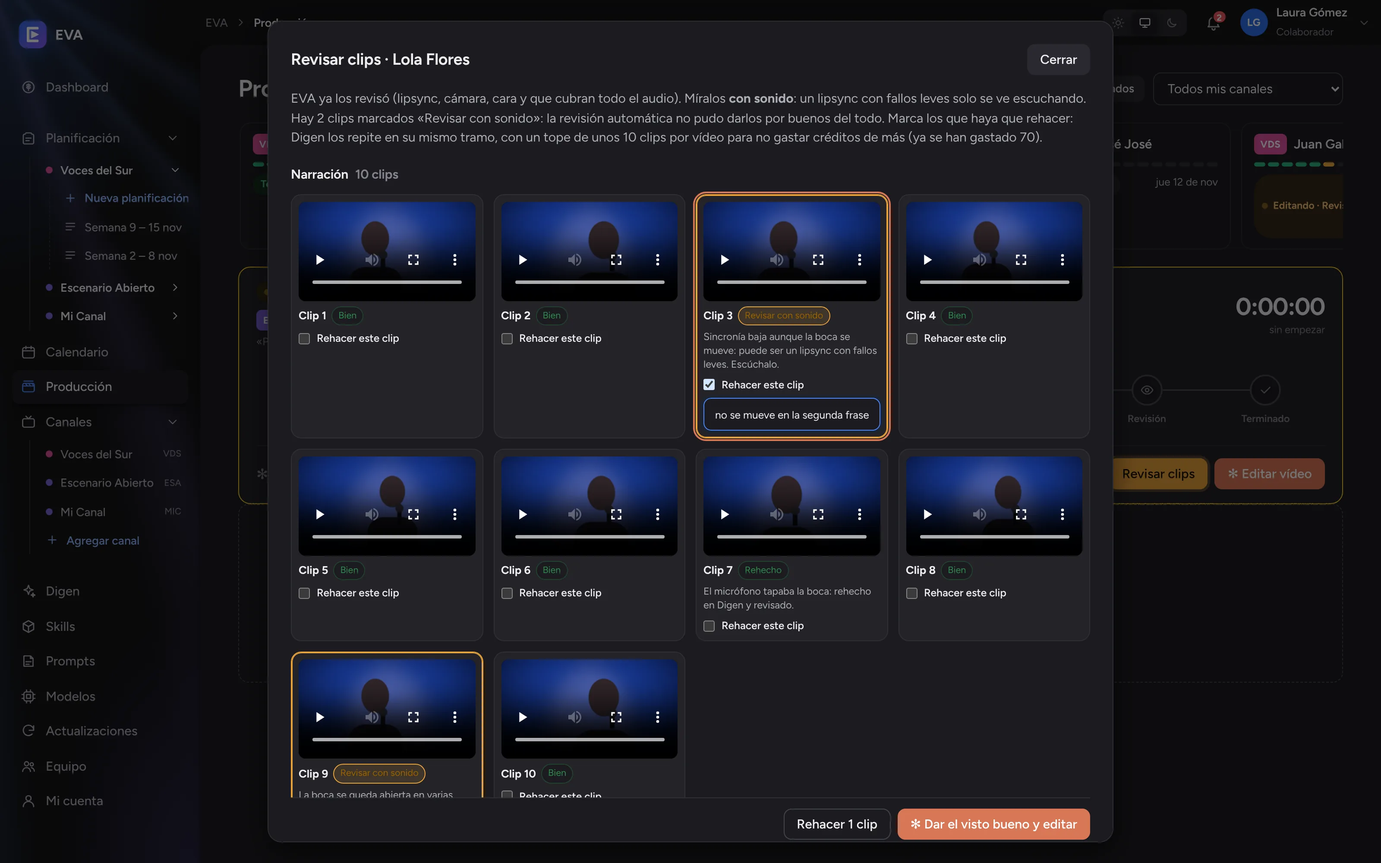
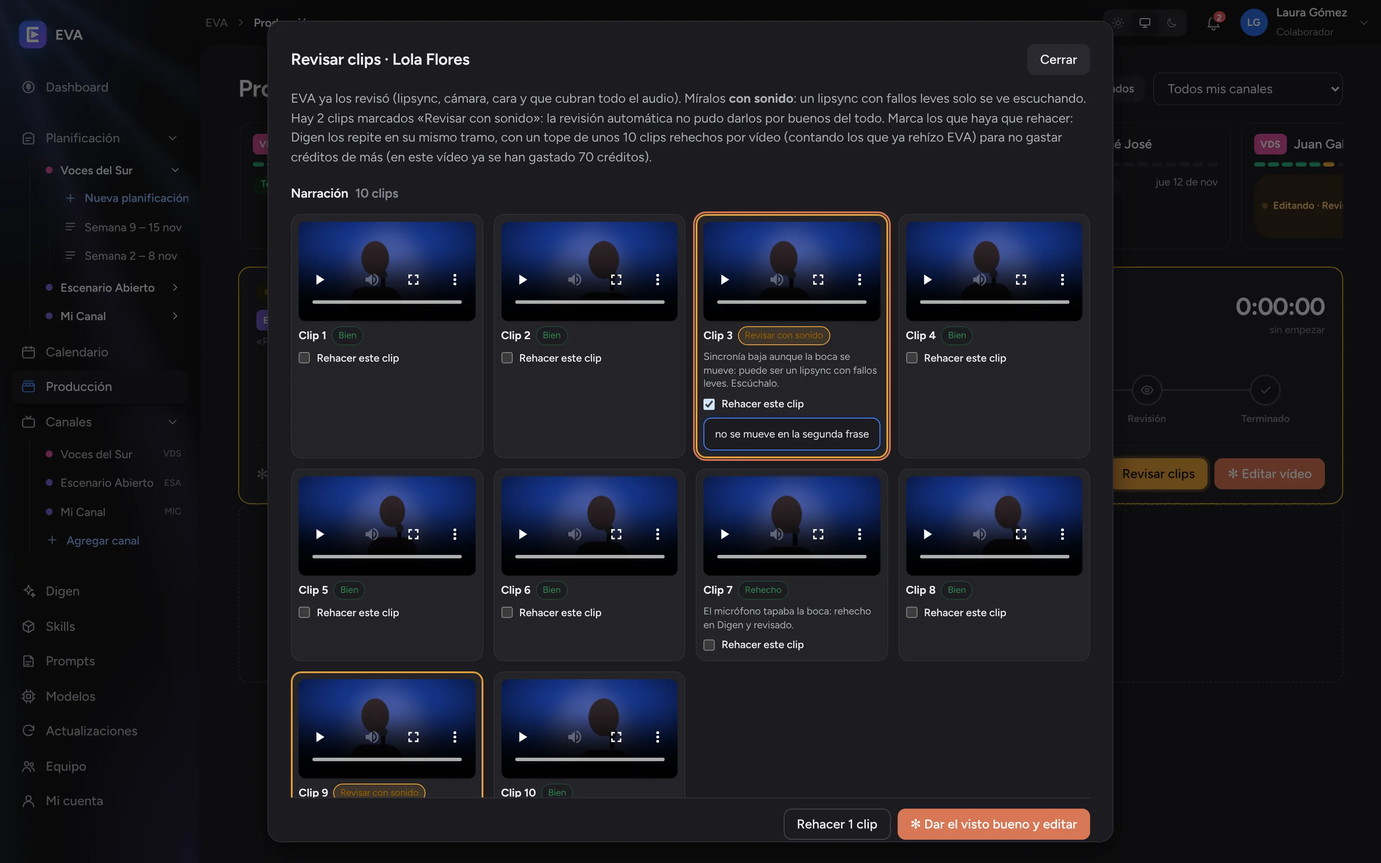
Web de EVA: dos formas de editar, paquete listo para copiar, carpeta miniatura, app de Claude y correcciones de la revisión
Claude-Session: https://claude.ai/code/session_01Qcj249naK1yTNmgoBioSva

Changed region(s): [[0.2188, 0.186, 0.7812, 0.93], [0.5, 0.155, 0.75, 0.186], [0.4375, 0.155, 0.4688, 0.186]]

diff --git a/index.html b/index.html
@@ -63,6 +63,13 @@ h1{font-size:clamp(40px,7vw,76px);line-height:1.02;letter-spacing:-.035em;font-w
 h1 em{font-style:normal;background:var(--grad);-webkit-background-clip:text;background-clip:text;color:transparent}
 .entrada{font-size:clamp(18px,2.2vw,21px);color:var(--t2);max-width:62ch;text-wrap:pretty}
 .botones{display:flex;flex-wrap:wrap;gap:12px;margin-top:30px}
+.autor{margin-top:18px;font-size:15px;color:var(--t3);max-width:62ch}
+.modos{display:grid;grid-template-columns:repeat(auto-fit,minmax(260px,1fr));gap:14px;margin-top:18px}
+.modo{background:var(--panel);border:1px solid var(--linea);border-radius:14px;padding:20px;min-width:0}
+.modo h4{margin:0 0 6px;display:flex;align-items:center;gap:8px;flex-wrap:wrap}
+.modo .para{display:block;font-size:14px;color:var(--t3);margin-bottom:10px}
+.modo ol{margin:0;padding-left:20px;color:var(--t2);font-size:15.5px;line-height:1.55}
+.modo ol li{margin:4px 0}
 .btn{display:inline-flex;align-items:center;gap:8px;font-weight:600;font-size:16px;padding:12px 20px;border-radius:12px;border:1px solid var(--linea);background:var(--panel);color:var(--t1)}
 .btn:hover{text-decoration:none;border-color:var(--linea-2)}
 .btn.primario{background:var(--grad);color:#fff;border:0;box-shadow:0 10px 24px -10px color-mix(in srgb,var(--violeta) 70%,transparent)}
@@ -286,6 +293,7 @@ footer .ancho{display:flex;flex-wrap:wrap;gap:12px;align-items:center;justify-co
         <svg width="18" height="18" viewBox="0 0 24 24" fill="none" stroke="currentColor" stroke-width="2.4" stroke-linecap="round" stroke-linejoin="round"><path d="M5 12h14M13 6l6 6-6 6"/></svg></a>
       <a class="btn" href="#manual">Ver el manual</a>
     </div>
+    <p class="autor">EVA es un proyecto creado por Andy para trabajar con su equipo de canales. Por ahora solo está disponible por invitación.</p>
     <div class="escaparate"><img src="img/produccion.webp" width="3200" height="2000" alt="Producción en EVA: tres vídeos editándose a la vez, cada uno con su ventana de Claude Code y su barra de etapas" data-zoom></div>
   </div>
 </section>
@@ -330,7 +338,7 @@ footer .ancho{display:flex;flex-wrap:wrap;gap:12px;align-items:center;justify-co
       <div class="paso"><div class="n">1</div><h3>Planificar</h3><p>Pulsas <b>Planificar</b> y EVA propone los vídeos de la semana con su historia, título y miniatura.</p></div>
       <div class="paso"><div class="n">2</div><h3>Aprobar</h3><p>Revisas la propuesta y la apruebas, o pides cambios con tus palabras.</p></div>
       <div class="paso"><div class="n">3</div><h3>Producir</h3><p>Preparas el material de cada vídeo (foto, narración, canción e instrumental) en la carpeta que EVA crea para él.</p></div>
-      <div class="paso"><div class="n">4</div><h3>Editar</h3><p>Pulsas <b>Editar vídeo</b> y EVA monta, verifica y renderiza en DaVinci Resolve.</p></div>
+      <div class="paso"><div class="n">4</div><h3>Editar</h3><p>Pulsas <b>Editar vídeo</b> y EVA monta, verifica y renderiza en DaVinci Resolve. O <b>Solo clips</b>, si quieres revisar los clips antes.</p></div>
       <div class="paso"><div class="n">5</div><h3>Listo para publicar</h3><p>El vídeo terminado queda en su carpeta, dentro de la del canal. Lo subes tú a YouTube el día previsto.</p></div>
     </div>
 
@@ -340,7 +348,7 @@ footer .ancho{display:flex;flex-wrap:wrap;gap:12px;align-items:center;justify-co
         <h3 style="font-size:28px;letter-spacing:-.02em">Una semana pensada, no improvisada.</h3>
         <ul class="lista">
           <li><span><b>Resultados recientes.</b> Vistas, retención y qué títulos y miniaturas ganaron en las últimas semanas.</span></li>
-          <li><span><b>Los demás canales.</b> Mira el calendario de todo el equipo para no repetir artistas, canciones ni días.</span></li>
+          <li><span><b>Los demás canales.</b> Si colaboras en un equipo, mira también su calendario para no repetir artistas, canciones ni días.</span></li>
           <li><span><b>Tu público.</b> Días y horas de publicación pensados para la audiencia de cada canal, con la hora de España y de América.</span></li>
           <li><span><b>Las reglas del canal.</b> Cada canal tiene su estilo y sus límites; la propuesta se revisa contra ellos antes de enseñártela.</span></li>
           <li><span><b>Una segunda mirada.</b> Antes de llegar a ti, la propuesta pasa una revisión como la de un editor exigente: si algo falla, se corrige.</span></li>
@@ -381,14 +389,15 @@ footer .ancho{display:flex;flex-wrap:wrap;gap:12px;align-items:center;justify-co
         <p>Con <b>Solo clips</b>, EVA genera y revisa los clips sin editar y te avisa: los miras con sonido, rehaces los que no te convenzan y das el visto bueno para editar.</p>
       </article>
     </div>
+    <div class="nota" style="margin-top:28px"><svg viewBox="0 0 24 24" fill="none" stroke="currentColor" stroke-width="2" stroke-linecap="round"><circle cx="12" cy="12" r="9"/><path d="M12 8v5M12 16.5v.01"/></svg><span><b>EVA no es perfecta, y no pretende serlo.</b> Por eso te deja el control en cada etapa: puedes pedir cambios en la planificación, revisar los clips antes de editar o escribirle en su ventana de Claude Code una corrección en cualquier momento de la edición.</span></div>
     <div class="dos" style="margin-top:72px">
       <div>
         <p class="etq">Aprende de cada fallo</p>
         <h3 style="font-size:28px;letter-spacing:-.02em">Cada error real se convierte en una regla nueva.</h3>
         <p class="t2" style="margin-top:14px">Cuando un vídeo sale con un fallo que se escapó, se estudia y EVA lo vigila desde entonces. Un ejemplo: unos clips con lipsync casi perfecto pasaron la revisión aunque, escuchándolos, se notaba que la boca no acompañaba bien a la voz. Desde entonces:</p>
         <ul class="lista">
-          <li><span><b>Mira la boca junto a la voz</b>, fotograma a fotograma, en los clips que la revisión automática no puede dar por buenos del todo.</span></li>
-          <li><span><b>Pide a Digen lo que evita esos fallos:</b> el micrófono nunca delante de los labios, nada de sonrisa amplia mientras habla y una articulación clara de cada palabra.</span></li>
+          <li><span><b>Mira la boca junto a la voz</b> en los clips que la revisión automática no puede dar por buenos del todo.</span></li>
+          <li><span><b>Ajusta lo que pide a Digen</b> para evitar ese tipo de fallo en los siguientes vídeos.</span></li>
           <li><span><b>Te marca los dudosos</b> («Revisar con sonido») para que, si usas Solo clips, sepas cuáles mirar primero.</span></li>
         </ul>
       </div>
@@ -441,7 +450,8 @@ footer .ancho{display:flex;flex-wrap:wrap;gap:12px;align-items:center;justify-co
       <li><a href="#entrar"><span><b>Instala EVA y entra.</b> El administrador te da el instalador y autoriza tu cuenta de Google y tu PC.</span></a></li>
       <li><a href="#resolve"><span><b>Instala DaVinci Resolve</b> y aprende a conectarlo con EVA.</span></a></li>
       <li><a href="#instalar"><span><b>Instala Claude Code</b> e inicia sesión con tu cuenta de Claude.</span></a></li>
-      <li><a href="#otras"><span><b>Comprueba que todo está en verde</b> en Comprobación del sistema.</span></a></li>
+      <li><a href="#cuenta"><span><b>Pega tu clave de Digen</b> en Mi cuenta: es el servicio que genera los clips del concursante.</span></a></li>
+      <li><a href="#otras"><span><b>Comprueba que todo está en verde</b> en Comprobación del sistema (menú de la izquierda).</span></a></li>
       <li><a href="#roles"><span><b>Mira tu rol</b> y qué canales tienes.</span></a></li>
       <li><a href="#canales"><span><b>Crea tu canal y conecta sus métricas</b>, si trabajas con canales propios.</span></a></li>
       <li><a href="#planificacion"><span><b>Planifica tu primera semana</b> y apruébala.</span></a></li>
@@ -497,11 +507,11 @@ footer .ancho{display:flex;flex-wrap:wrap;gap:12px;align-items:center;justify-co
 
         <article class="cap" id="resolve">
           <header><span class="num">02</span><h3>Instalar y conectar DaVinci Resolve</h3></header>
-          <p>EVA monta tus vídeos dentro de <strong>DaVinci Resolve</strong>, así que tiene que estar instalado en tu PC. Descárgalo de la web oficial de Blackmagic Design e instálalo; mejor antes de abrir EVA, porque así EVA le añade sola su <strong>conector</strong>. Si lo instalas después, pulsa <b>Probar de nuevo</b> en Comprobación del sistema.</p>
+          <p>EVA monta tus vídeos dentro de <strong>DaVinci Resolve</strong>, así que tiene que estar instalado en tu PC. Instala la versión que te indique quien te invitó a EVA (EVA necesita una versión concreta para poder conectarse a Resolve); al abrir EVA, esta le añade sola su <strong>conector</strong> (el pequeño programa que le deja trabajar dentro de Resolve). Si ya tenías EVA abierta al instalar Resolve, pulsa <b>Probar de nuevo</b> en Comprobación del sistema.</p>
           <h4>Antes de cada edición: abre Resolve y lanza el conector</h4>
           <p>El conector, llamado <strong>CursorBridge</strong>, es lo que permite a EVA trabajar dentro de DaVinci Resolve. Se lanza así cada vez que abres Resolve:</p>
           <ol class="pasos">
-            <li>Abre <b>DaVinci Resolve</b> y deja abierto cualquier proyecto (EVA creará el de cada vídeo).</li>
+            <li>Abre <b>DaVinci Resolve</b> y deja abierto cualquier proyecto (EVA creará el de cada vídeo). La primera vez, crea uno vacío con <b>Nuevo proyecto</b> y cualquier nombre.</li>
             <li>En el menú de arriba, abre <b>Área de trabajo</b> (en inglés, <i>Workspace</i>).</li>
             <li>Baja hasta <b>Secuencias de comandos</b> (<i>Scripts</i>).</li>
             <li>Pulsa <b>CursorBridge</b>. No verás ninguna ventana nueva: el conector se queda esperando a EVA.</li>
@@ -551,7 +561,7 @@ footer .ancho{display:flex;flex-wrap:wrap;gap:12px;align-items:center;justify-co
 
         <article class="cap" id="roles">
           <header><span class="num">04</span><h3>Tu rol y lo que puedes hacer</h3></header>
-          <p>El administrador te da uno de estos dos roles. Tu rol aparece en tu ficha de <strong>Equipo</strong> y en la ventana <strong>Acerca de EVA</strong>.</p>
+          <p>El administrador te da uno de estos dos roles. Tu rol aparece debajo de tu nombre, arriba a la derecha, y en la ventana <strong>Acerca de EVA</strong>. No tienes que hacer nada con él: solo decide qué ves.</p>
           <div class="roles">
             <div class="rol"><h4><span class="punto" style="background:#8B5CF6"></span>Colaborador</h4><p>Trabajas con los <strong>canales del equipo</strong> que te asigne el administrador y, además, con tus canales propios. Planificas, produces y editas sus vídeos, y ves quién forma parte del equipo.</p></div>
             <div class="rol"><h4><span class="punto" style="background:#0E9F6E"></span>Invitado</h4><p>Trabajas con <strong>tus propios canales</strong>: los creas en EVA, conectas sus métricas, los planificas y editas sus vídeos. Lo del equipo no te aparece.</p></div>
@@ -612,7 +622,7 @@ footer .ancho{display:flex;flex-wrap:wrap;gap:12px;align-items:center;justify-co
           <ul class="lista">
             <li><span><b>Qué funcionó y qué no.</b> Vistas, retención, clics y qué títulos y miniaturas ganaron en las últimas semanas, vídeo a vídeo.</span></li>
             <li><span><b>Tu audiencia.</b> Qué días y a qué horas responde mejor tu público, con la hora de España y de América.</span></li>
-            <li><span><b>El resto de canales.</b> El calendario de todo el equipo, para no repetir artistas ni canciones ni pisar los mismos días.</span></li>
+            <li><span><b>Los canales del equipo.</b> Si colaboras en un equipo, EVA consulta el calendario de todos sus canales para no repetir artistas ni canciones ni pisar los mismos días.</span></li>
             <li><span><b>Las reglas de tu canal.</b> Su estilo, su formato y sus límites; la propuesta se comprueba contra ellas.</span></li>
             <li><span><b>Una segunda revisión.</b> Antes de enseñártela, la propuesta pasa un control como el de un editor jefe exigente; si algo no cumple, se corrige.</span></li>
           </ul>
@@ -623,6 +633,7 @@ footer .ancho{display:flex;flex-wrap:wrap;gap:12px;align-items:center;justify-co
             <li>Pulsa <span class="boton-ui azul">Planificar</span>. EVA empieza el estudio; tarda unos minutos y puedes seguir usando EVA.</li>
             <li>Mientras trabaja, ves su conversación dentro de la propia semana. Si necesita tu opinión, aparece la etiqueta <b>Te espera</b>: contéstale ahí mismo o desde la app de Claude.</li>
           </ol>
+<div class="nota"><svg viewBox="0 0 24 24" fill="none" stroke="currentColor" stroke-width="2" stroke-linecap="round"><circle cx="12" cy="12" r="9"/><path d="M12 8v5M12 16.5v.01"/></svg><span><b>¿Entraste como invitado?</b> Puede que no veas este botón tal cual: tus canales son personales y su planificación funciona de forma independiente, sin tener en cuenta a ningún equipo. Esto no afecta a tu forma de trabajar: planificas, apruebas y produces tus vídeos igual.</span></div>
           <figure class="fig" data-callouts='[[8.9,26.3,"Nueva planificación",10,14],[22,16.2,"Elige el canal",4,-10],[26.4,22,"La semana siguiente",16,16],[92.7,23.5,"Planificar",-6,12]]'>
             <div class="lienzo"><img src="img/nuevaplan.webp" width="3200" height="2000" alt="Nueva planificación de un canal con el botón Planificar" loading="lazy"></div>
           </figure>
@@ -647,7 +658,7 @@ footer .ancho{display:flex;flex-wrap:wrap;gap:12px;align-items:center;justify-co
 
         <article class="cap" id="semana">
           <header><span class="num">09</span><h3>Tu semana planificada</h3></header>
-          <p>Una vez aprobada, la semana queda en tarjetas: una por vídeo, con su día, artista y estado. Toca una para ver todo su paquete en las pestañas de abajo.</p>
+          <p>Una vez aprobada, la semana queda en tarjetas: una por vídeo, con su día, artista y estado. Toca una para ver su <strong>paquete</strong>, la ficha completa del vídeo con todo lo necesario para producirlo, en las pestañas de abajo.</p>
           <figure class="fig" data-callouts='[[21.5,16,"Canales",12,-11],[9.6,22.8,"Nueva planificación",1,24],[30,40,"Un vídeo de la semana",12,12],[78,23.4,"Exportar",-6,10],[90.5,23.4,"Ajustar con Claude",-4,-10],[90.6,55.6,"Informe de la semana",-8,10],[37.5,62.6,"Pestañas del vídeo",10,10]]'>
             <div class="lienzo"><img src="img/planificacion.webp" width="3200" height="2000" alt="Planificación de una semana aprobada con tres tarjetas de vídeo" loading="lazy"></div>
             <figcaption><ol class="leyenda">
@@ -667,12 +678,24 @@ footer .ancho{display:flex;flex-wrap:wrap;gap:12px;align-items:center;justify-co
             <tbody>
               <tr><td>Resumen</td><td>Ficha del vídeo (publicación, concursante, avance inicial) y la descripción para YouTube, lista para copiar.</td></tr>
               <tr><td>Miniaturas</td><td>Las variantes de título y miniatura para probar (A, B, C).</td></tr>
-              <tr><td>Narración</td><td>El texto que se locuta y su aprobación.</td></tr>
-              <tr><td>Canción</td><td>El tema que interpreta el concursante y sus datos.</td></tr>
+              <tr><td>Narración</td><td>El texto que se locuta y los ajustes de la voz.</td></tr>
+              <tr><td>Canción</td><td>La letra y el estilo de la canción del concursante, y el prompt de la música de fondo de la narración.</td></tr>
               <tr><td>Concursante</td><td>La historia del personaje y la descripción para su imagen.</td></tr>
             </tbody>
           </table>
           </div>
+          <h4>Todo listo para copiar y pegar</h4>
+          <p>EVA no solo decide qué vídeos hacer: te deja cada pieza del vídeo escrita y lista para copiar con un clic, para que producir sea copiar, pegar y generar.</p>
+          <ul class="lista">
+            <li><span><b>Títulos.</b> Tres, uno por prueba (A, B y C), elegidos a partir de lo que de verdad ha funcionado en tu canal, con su contador de caracteres.</span></li>
+            <li><span><b>Prompts de las miniaturas.</b> Uno por prueba, con la plantilla de tu canal y la lista de imágenes que tienes que subir a ChatGPT, en orden.</span></li>
+            <li><span><b>Prompt de la imagen del concursante</b> (pestaña Concursante).</span></li>
+            <li><span><b>Narración</b> con sus ajustes de voz, <b>canción</b> e <b>instrumental</b> con sus prompts, y la <b>descripción</b> para YouTube.</span></li>
+          </ul>
+          <figure class="fig" data-callouts='[[20.5,57.9,"Prueba A, B o C",10,-12],[41.4,67.6,"Copiar el título",-8,-12],[29.9,80,"Imágenes para ChatGPT, en orden",14,8],[31.1,89,"Copiar el prompt de la miniatura",12,12],[85.8,52.2,"Dónde se prueba en YouTube",-12,-12]]'>
+            <div class="lienzo"><img src="img/miniaturas.webp" width="3200" height="2000" alt="Pestaña Miniaturas con las tres pruebas A, B y C: título, imágenes que subir y botón para copiar el prompt" loading="lazy"></div>
+          </figure>
+          <div class="nota"><svg viewBox="0 0 24 24" fill="none" stroke="currentColor" stroke-width="2" stroke-linecap="round"><circle cx="12" cy="12" r="9"/><path d="M12 8v5M12 16.5v.01"/></svg><span><b>Las fotos del jurado para las miniaturas te las deja EVA.</b> Al terminar la edición, en la carpeta del vídeo aparece la carpeta <code>miniatura</code> con la imagen del concursante y un fotograma de un juez o jueza por prueba (<code>3A_…</code>, <code>3B_…</code>, <code>3C_…</code>), con la reacción que pide cada una. La foto del artista homenajeado y el logo del canal los pones tú; la pestaña Miniaturas te dice el orden exacto. Por eso las miniaturas se hacen al final, con el vídeo ya editado.</span></div>
         </article>
 
         <article class="cap" id="produccion">
@@ -688,33 +711,48 @@ footer .ancho{display:flex;flex-wrap:wrap;gap:12px;align-items:center;justify-co
             <div class="n3 arch">narracion.mp3</div>
             <div class="n3 arch">cancion.mp3</div>
             <div class="n3 arch">instrumental.mp3</div>
+            <div class="n3"><span class="ic-carpeta"></span>narracion, cancion <em>los clips de Digen (los baja EVA)</em></div>
+            <div class="n3"><span class="ic-carpeta"></span>miniatura <em>al terminar: fotos para las miniaturas A/B/C</em></div>
+            <div class="n3 arch">isabel pantoja final.mp4 <em>el vídeo terminado</em></div>
+            <div class="n3 arch">proyecto isabel pantoja final.drp <em>el proyecto de DaVinci Resolve, para retocarlo o abrirlo en otro PC</em></div>
           </div>
           <h4>Antes de editar: prepara el material</h4>
-          <p>Para empezar la producción de un vídeo, genera estos cuatro archivos con lo que te prepara su paquete (pestañas Concursante, Narración y Canción) y guárdalos en la carpeta del vídeo <strong>con estos nombres exactos</strong>:</p>
+          <p>Para empezar la producción de un vídeo, genera estos cuatro archivos con lo que te prepara su paquete (pestañas Concursante, Narración y Canción) y guárdalos en la carpeta del vídeo. Los tres audios tienen que llamarse <strong>exactamente así</strong>:</p>
           <div class="tabla-scroll">
           <table class="accesos comparar">
             <thead><tr><th>Archivo</th><th>Qué es</th><th>De dónde sale</th></tr></thead>
             <tbody>
-              <tr><td><code>concursante.jpg</code></td><td>La foto del concursante (también vale .png).</td><td>La creas con la descripción de la pestaña Concursante.</td></tr>
-              <tr><td><code>narracion.mp3</code></td><td>La voz del narrador que cuenta la historia.</td><td>El texto de la pestaña Narración.</td></tr>
-              <tr><td><code>cancion.mp3</code></td><td>La canción que interpreta el concursante.</td><td>Los datos de la pestaña Canción.</td></tr>
-              <tr><td><code>instrumental.mp3</code></td><td>La misma canción sin voz, solo la música.</td><td>La pestaña Canción.</td></tr>
+              <tr><td><code>concursante.jpg</code></td><td>La foto del concursante (vale cualquier nombre, en .jpg, .png o .webp).</td><td>En ChatGPT, con el prompt de la pestaña Concursante.</td></tr>
+              <tr><td><code>narracion.mp3</code></td><td>La voz que cuenta la historia del concursante.</td><td>En ElevenLabs, con el texto y los ajustes de voz de la pestaña Narración.</td></tr>
+              <tr><td><code>cancion.mp3</code></td><td>La canción que interpreta el concursante.</td><td>En Suno, con la letra y el estilo de la pestaña Canción.</td></tr>
+              <tr><td><code>instrumental.mp3</code></td><td>Música suave de fondo para la narración (no es la canción sin voz).</td><td>En Suno, en modo Instrumental, con su prompt de la pestaña Canción.</td></tr>
             </tbody>
           </table>
           </div>
           <div class="nota"><svg viewBox="0 0 24 24" fill="none" stroke="currentColor" stroke-width="2" stroke-linecap="round"><circle cx="12" cy="12" r="9"/><path d="M12 8v5M12 16.5v.01"/></svg><span>Los audios también valen en <code>.wav</code> o <code>.m4a</code>. Si falta algo, EVA te dice exactamente qué archivo falta y no deja empezar la edición. Los clips de Digen no los preparas tú: si faltan, EVA los lanza al pulsar <b>Editar vídeo</b>.</span></div>
-          <h4>Después: la edición, sola</h4>
+          <h4>Dos formas de editar: elige la tuya</h4>
+          <p>Con el material en su carpeta, tienes dos botones. Hacen lo mismo con los clips de Digen y con el montaje; la diferencia es <strong>si quieres revisar los clips antes de que empiece la edición</strong>.</p>
+          <div class="modos">
+            <div class="modo"><h4><span class="boton-ui claude">Editar vídeo</span> Edición autónoma</h4><span class="para">Para quien prefiere no estar pendiente.</span>
+              <ol><li>Lanza los clips en Digen (si aún no están), espera a que terminen y los descarga.</li><li>Los revisa y rehace solo los que salen mal, con el tope de créditos.</li><li>Edita, monta en DaVinci Resolve, renderiza y revisa el resultado.</li><li>Te avisa cuando el vídeo está terminado.</li></ol></div>
+            <div class="modo"><h4><span class="boton-ui">Solo clips</span> Revisar los clips primero</h4><span class="para">Para quien quiere dar el visto bueno antes de editar.</span>
+              <ol><li>Lanza, descarga y revisa los clips igual, pero <b>no edita</b>.</li><li>Te avisa cuando están listos para revisar.</li><li>Los ves y escuchas; marcas los que haya que rehacer o das el visto bueno.</li><li>Con tu visto bueno empieza la edición, igual que con Editar vídeo.</li></ol></div>
+          </div>
+          <p><b>¿Cuál elegir?</b> Si estás empezando, o quieres escuchar tú el lipsync antes de editar, usa <b>Solo clips</b>: la edición espera a tu visto bueno, así que tarda más si no estás pendiente. Cuando ya confíes en el resultado, <b>Editar vídeo</b> lo hace todo sin esperarte; en ese modo EVA revisa con más cuidado los clips dudosos y rehace los que salen mal, dentro del mismo tope.</p>
+          <div class="nota"><svg viewBox="0 0 24 24" fill="none" stroke="currentColor" stroke-width="2" stroke-linecap="round"><circle cx="12" cy="12" r="9"/><path d="M12 8v5M12 16.5v.01"/></svg><span><b>Mientras Digen genera los clips</b> (de 15 a 40 minutos), la ventana de Claude Code se cierra y el botón queda en gris con el aviso «Digen está generando sus clips»: es normal. EVA mira cada pocos minutos y, cuando terminan, abre sola la edición (o la revisión, con Solo clips). Deja el PC encendido y EVA abierta con tu sesión. Si estabas en Solo clips y pulsas Editar vídeo, EVA editará sin esperar tu revisión.</span></div>
+          <h4>Qué pasa en cada etapa</h4>
           <div class="tabla-scroll">
           <table class="accesos comparar">
             <thead><tr><th>Etapa</th><th>Qué pasa</th><th>¿Te necesita?</th></tr></thead>
             <tbody>
               <tr><td>Clips de Digen</td><td>Se generan los clips de la narración y la canción en tu cuenta de Digen (los sigues en la sección Digen). EVA los revisa y rehace los que salen mal, con su tope.</td><td>No (con Solo clips, das tú el visto bueno)</td></tr>
-              <tr><td>Edición</td><td>Guion, revisión de clips, plan de montaje, verificación, montaje en DaVinci Resolve, render y revisión final.</td><td>No; solo si aparece «Te espera»</td></tr>
-              <tr><td>Terminado</td><td>El vídeo final queda en la carpeta del vídeo.</td><td>Lo revisas y lo subes a YouTube</td></tr>
+              <tr><td>Guion, Plan y Verificación</td><td>Lee la narración y la canción, elige las tomas del jurado y del público, prepara el montaje y lo comprueba.</td><td>No; solo si aparece «Te espera»</td></tr>
+              <tr><td>Montaje, Render y Revisión</td><td>Monta el vídeo en DaVinci Resolve, lo exporta y revisa el resultado.</td><td>Que DaVinci Resolve esté abierto con su conector</td></tr>
+              <tr><td>Terminado</td><td>Quedan en la carpeta del vídeo el vídeo final, el proyecto de Resolve y la carpeta <code>miniatura</code>.</td><td>Lo revisas, haces las miniaturas y lo subes a YouTube</td></tr>
             </tbody>
           </table>
           </div>
-          <div class="nota"><svg viewBox="0 0 24 24" fill="none" stroke="currentColor" stroke-width="2" stroke-linecap="round"><circle cx="12" cy="12" r="9"/><path d="M12 8v5M12 16.5v.01"/></svg><span><b>Antes de pulsar Editar vídeo:</b> DaVinci Resolve tiene que estar abierto con CursorBridge lanzado. Lo sabrás porque el piloto de arriba dice <b>DaVinci Resolve en línea</b>, en verde. <a href="#resolve">Cómo lanzarlo</a>.</span></div>
+          <div class="nota"><svg viewBox="0 0 24 24" fill="none" stroke="currentColor" stroke-width="2" stroke-linecap="round"><circle cx="12" cy="12" r="9"/><path d="M12 8v5M12 16.5v.01"/></svg><span><b>Antes de pulsar Editar vídeo:</b> abre DaVinci Resolve y lanza CursorBridge; lo sabrás porque el piloto de arriba dice <b>DaVinci Resolve en línea</b>, en verde. Si al llegar al montaje Resolve no responde, la edición se detiene y te avisa. Con Solo clips no hace falta hasta que des el visto bueno. <a href="#resolve">Cómo lanzarlo</a>.</span></div>
           <p style="margin-top:16px">Para editar, toca la tarjeta del vídeo y pulsa <span class="boton-ui claude">Editar vídeo</span>. EVA abre su ventana de Claude Code y se pone a trabajar; mientras edita puedes seguir con otras cosas. Puedes lanzar <strong>hasta tres ediciones a la vez</strong>: cada una tiene su ventana y comparten DaVinci Resolve por turnos, sin pisarse.</p>
           <figure class="fig" data-callouts='[[45.9,9.9,"DaVinci Resolve en línea",-22,6],[38,17,"Tarjeta del vídeo",10,12],[77.8,10.2,"Ocultar terminados",-22,8],[90.3,10.2,"Filtrar por canal",-6,12],[65.8,45.6,"Etapa actual",-4,-12],[91.9,54.8,"Editar vídeo",-4,-12],[77.5,77,"Otras ediciones a la vez",6,12]]'>
             <div class="lienzo"><img src="img/produccion.webp" width="3200" height="2000" alt="Producción con tres ediciones en paralelo y la barra de etapas" loading="lazy"></div>
@@ -728,13 +766,17 @@ footer .ancho{display:flex;flex-wrap:wrap;gap:12px;align-items:center;justify-co
               <li><span class="c">7</span><span><b>Ediciones en paralelo</b>, cada una en su ventana.</span></li>
             </ol></figcaption>
           </figure>
-          <h4>Solo clips: revisa los clips antes de editar</h4>
-          <p><span class="boton-ui claude">Editar vídeo</span> lo hace todo de principio a fin sin esperarte. Si prefieres ver los clips de Digen antes de que se edite, pulsa <span class="boton-ui">Solo clips</span>, al lado:</p>
+          <h4>Paso a paso con Solo clips</h4>
+          <p>Si prefieres ver los clips de Digen antes de que se edite, pulsa <span class="boton-ui">Solo clips</span>, al lado de <span class="boton-ui claude">Editar vídeo</span>. Cuando los clips están listos, ese botón pasa a llamarse <span class="boton-ui">Revisar clips</span>.</p>
+          <figure class="fig" data-callouts='[[84.4,54.9,"Solo clips",-10,-14],[91.9,54.9,"Editar vídeo",-2,12],[21.9,33.8,"Listo para editar",10,-10]]'>
+            <div class="lienzo"><img src="img/soloclips.webp" width="3200" height="2000" alt="Vídeo listo para editar con los botones Solo clips y Editar vídeo" loading="lazy"></div>
+          </figure>
           <ol class="pasos">
             <li><span>EVA lanza los clips en Digen (si aún no están), los descarga y los revisa, sin editar nada. Los que salen mal los rehace, con el mismo tope de créditos.</span></li>
             <li><span>Cuando están listos te llega un aviso a la campana (también en la app móvil) y la tarjeta del vídeo dice <b>Te espera · Revisar clips</b>.</span></li>
             <li><span>Pulsa <span class="boton-ui">Revisar clips</span>: los ves y los escuchas uno a uno. Los marcados <b>Revisar con sonido</b> son los que conviene mirar primero.</span></li>
-            <li><span>Marca los que haya que rehacer y escribe qué falla («el micrófono tapa la boca», «sonríe mientras habla»): EVA los vuelve a pedir a Digen y te avisa otra vez. O pulsa <b>Dar el visto bueno y editar</b> y empieza la edición, sin volver a rehacerlos.</span></li>
+            <li><span>Marca <b>Rehacer este clip</b> en los que fallen, escribe qué falla («el micrófono tapa la boca», «sonríe mientras habla») y pulsa <b>Rehacer N clips</b>: EVA los vuelve a pedir a Digen y te avisa otra vez. Cuentan dentro del mismo tope de unos 10 clips rehechos por vídeo.</span></li>
+            <li><span>Cuando estés conforme, pulsa <b>Dar el visto bueno y editar</b>: empieza la edición con los clips tal como están, sin volver a rehacerlos.</span></li>
           </ol>
           <figure class="fig" data-callouts='[[84,54.9,"Revisar clips",-10,-14],[52.2,23.8,"Te espera · Revisar clips",-10,26]]'>
             <div class="lienzo"><img src="img/porrevisar.webp" width="3200" height="2000" alt="Tarjeta de vídeo con los clips listos para revisar y el botón Revisar clips" loading="lazy"></div>
@@ -742,7 +784,7 @@ footer .ancho{display:flex;flex-wrap:wrap;gap:12px;align-items:center;justify-co
           <figure class="fig" data-callouts='[[56.8,36.6,"Revisar con sonido",8,-14],[51.4,44.6,"Rehacer este clip",-14,10],[57.3,48,"Qué falla",16,12],[60.6,95.4,"Rehacer marcados",-16,-12],[72,95.4,"Dar el visto bueno y editar",-6,-12]]'>
             <div class="lienzo"><img src="img/revisarclips.webp" width="3200" height="2000" alt="Ventana Revisar clips con los clips de la narración, uno marcado para rehacer" loading="lazy"></div>
           </figure>
-          <div class="nota"><svg viewBox="0 0 24 24" fill="none" stroke="currentColor" stroke-width="2" stroke-linecap="round"><circle cx="12" cy="12" r="9"/><path d="M12 8v5M12 16.5v.01"/></svg><span><b>¿No te gusta algo del vídeo final?</b> Díselo a Claude en la ventana de ese vídeo y lo corrige, o retócalo tú: el proyecto queda en DaVinci Resolve.</span></div>
+          <div class="nota"><svg viewBox="0 0 24 24" fill="none" stroke="currentColor" stroke-width="2" stroke-linecap="round"><circle cx="12" cy="12" r="9"/><path d="M12 8v5M12 16.5v.01"/></svg><span><b>¿No te gusta algo del vídeo final?</b> Pulsa <b>Editar vídeo</b> en su tarjeta: EVA te pregunta si quieres <b>Retocar</b> (le dices qué cambiar y cambia solo eso, sin volver a generar clips) o <b>Editar de nuevo</b> (rehace el montaje desde cero). Si la ventana de ese vídeo sigue abierta, escríbeselo directamente. También puedes retocarlo tú en DaVinci Resolve; si lo haces, exporta tú el vídeo final.</span></div>
         </article>
 
         <article class="cap" id="claude-code">
@@ -769,6 +811,9 @@ footer .ancho{display:flex;flex-wrap:wrap;gap:12px;align-items:center;justify-co
           <figure class="fig" data-callouts='[[17,3.7,"También en la app de Claude",6,14],[24.8,3.7,"Trabajando",22,40],[92.2,3.7,"Detener",-8,14],[96.5,3.7,"Reducir (vuelve al tamaño normal)",-14,26],[35,26,"Lo que hace, paso a paso",12,36]]'>
             <div class="lienzo"><img src="img/ccventana.webp" width="3200" height="2000" alt="Ventana de Claude Code ampliada mostrando el trabajo de edición en directo" loading="lazy"></div>
           </figure>
+          <h4>También desde la app de Claude (opcional)</h4>
+          <p>Cada conversación de Claude Code que abre EVA aparece también en la <b>app de Claude</b> (escritorio, móvil o claude.ai), en su sección <b>Code</b>, con el nombre <b>EVA · …</b> del vídeo o de la planificación. Es la misma conversación, en paralelo: lo que escribas en un sitio aparece en el otro y el trabajo sigue en tu PC. Entra en la app con la misma cuenta de Claude que usas en Claude Code.</p>
+          <p>No hace falta usarla. Te recomendamos seguir y revisar cada etapa desde EVA, donde además ves las etapas, los clips y DaVinci Resolve. Pero si te resulta más cómodo dar indicaciones o correcciones desde la app de Claude, o seguir el trabajo desde el móvil, puedes hacerlo: es cuestión de gustos.</p>
           <div class="nota"><svg viewBox="0 0 24 24" fill="none" stroke="currentColor" stroke-width="2" stroke-linecap="round"><circle cx="12" cy="12" r="9"/><path d="M12 8v5M12 16.5v.01"/></svg><span>Si se corta internet, EVA vuelve a enlazar la conversación con la app de Claude en cuanto regresa la conexión. No tienes que hacer nada.</span></div>
         </article>
 
@@ -854,7 +899,7 @@ footer .ancho{display:flex;flex-wrap:wrap;gap:12px;align-items:center;justify-co
           </figure>
 
           <h4>Actualizaciones</h4>
-          <p>Cuando hay una versión nueva de EVA te llega un aviso. Aquí ves sus novedades y la instalas con <span class="boton-ui azul">Descargar e instalar</span>: se instala encima, sin tocar tus canales, vídeos, planificaciones ni tu sesión, y EVA se vuelve a abrir sola.</p>
+          <p>Cuando hay una versión nueva de EVA te llega un aviso. Aquí ves sus novedades y la instalas con <span class="boton-ui azul">Descargar e instalar</span>: se instala encima, sin tocar tus canales, vídeos, planificaciones ni tu sesión, y EVA se vuelve a abrir sola. Mientras se descarga verás una barra con el porcentaje. Mejor actualiza sin ediciones en marcha y, después, cierra DaVinci Resolve, ábrelo y vuelve a lanzar CursorBridge: Comprobación del sistema te avisa si el conector se quedó en una versión anterior.</p>
           <figure class="fig" data-callouts='[[53,17.8,"Nueva versión",-12,12],[90,19,"Descargar e instalar",-8,12],[82.1,37.2,"Esta instalación",-4,12]]'>
             <div class="lienzo"><img src="img/actualizaciones.webp" width="3200" height="2000" alt="Sección Actualizaciones con una versión nueva lista para instalar" loading="lazy"></div>
           </figure>
@@ -922,13 +967,13 @@ footer .ancho{display:flex;flex-wrap:wrap;gap:12px;align-items:center;justify-co
           <header><span class="num">19</span><h3>Preguntas frecuentes</h3></header>
           <div class="preguntas">
             <details><summary>¿Tengo que dejar el PC encendido mientras edita?</summary><p>Sí. La edición ocurre en tu PC, con tu DaVinci Resolve. Puedes cerrar la ventana de EVA o seguir el avance desde el móvil, pero el PC debe seguir encendido.</p></details>
-            <details><summary>¿Por qué no se activa Editar vídeo?</summary><p>Porque falta algo: uno de los cuatro archivos del material (EVA te dice cuál) o que DaVinci Resolve esté abierto con CursorBridge lanzado. Mira el piloto de Producción: tiene que estar en verde.</p></details>
+            <details><summary>¿Por qué no se activa Editar vídeo?</summary><p>Porque falta algo, y EVA lo escribe junto al botón: uno de los cuatro archivos del material, que Digen termine los clips, que haya menos de tres ediciones abiertas o que Claude Code esté instalado. Aparte, ten DaVinci Resolve abierto con CursorBridge (piloto en verde) antes de empezar.</p></details>
             <details><summary>¿Puedo seguir usando el PC mientras EVA edita?</summary><p>Sí, aunque DaVinci Resolve estará ocupado. Evita tocar la línea de tiempo del proyecto que se está montando.</p></details>
             <details><summary>¿Por qué no veo un canal del equipo?</summary><p>Porque el administrador aún no te ha dado acceso a ese canal. Pídeselo; si eres invitado, solo verás tus canales propios.</p></details>
-            <details><summary>¿Dónde queda el vídeo terminado y quién lo sube?</summary><p>En la carpeta del vídeo, dentro de la carpeta de su canal. EVA no publica en YouTube: lo subes tú, con el título y la miniatura de su paquete (pestaña Miniaturas).</p></details>
+            <details><summary>¿Dónde queda el vídeo terminado y quién lo sube?</summary><p>En la carpeta del vídeo, dentro de la carpeta de su canal. EVA no publica en YouTube: lo subes tú con el título A, la descripción (pestaña Resumen) y las tres miniaturas en «Probar y comparar». El paquete trae además, en «Exportar planificación», lo que conviene hacer al publicar, como el comentario fijado o marcar «Contenido alterado o sintético».</p></details>
             <details><summary>¿Qué hago si la edición falla o el resultado no me gusta?</summary><p>Escríbele a Claude en la ventana de ese vídeo qué quieres distinto, o pulsa <b>Editar vídeo</b> para retomarla. También puedes retocar a mano el proyecto en DaVinci Resolve. Si algo no funciona en EVA, mira Comprobación del sistema y cuéntalo en Feedback.</p></details>
             <details><summary>¿Funciona en Mac o en iPhone?</summary><p>EVA se instala en PC con Windows. La app móvil de EVA es para Android; desde un iPhone puedes seguir y contestar las ediciones en la app de Claude.</p></details>
-            <details><summary>¿Qué es la clave de Digen y de dónde la saco?</summary><p>Digen genera los clips de la narración y la canción. Cada persona usa su propia cuenta: la clave se copia de tu cuenta de Digen y se pega en Mi cuenta. Si no sabes cuál usar, pregunta al administrador.</p></details>
+            <details><summary>¿Qué es la clave de Digen y de dónde la saco?</summary><p>Digen genera los clips de la narración y la canción. Cada persona usa su propia cuenta de Digen (los clips gastan sus créditos): la clave se copia de tu cuenta de Digen y se pega en Mi cuenta.</p></details>
             <details><summary>¿A quién pregunto si me atasco?</summary><p>Al administrador que te invitó. Dentro de EVA, usa Feedback (con una captura si puedes): le llega un aviso al momento.</p></details>
             <details><summary>¿Qué pasa si se corta internet en mitad de una edición?</summary><p>EVA espera a que vuelva la conexión y vuelve a enlazar la conversación con la app de Claude. El trabajo hecho no se pierde.</p></details>
             <details><summary>¿Cuántos vídeos puedo editar a la vez?</summary><p>Hasta tres. Cada uno en su ventana; DaVinci Resolve se reparte por turnos entre ellos.</p></details>
